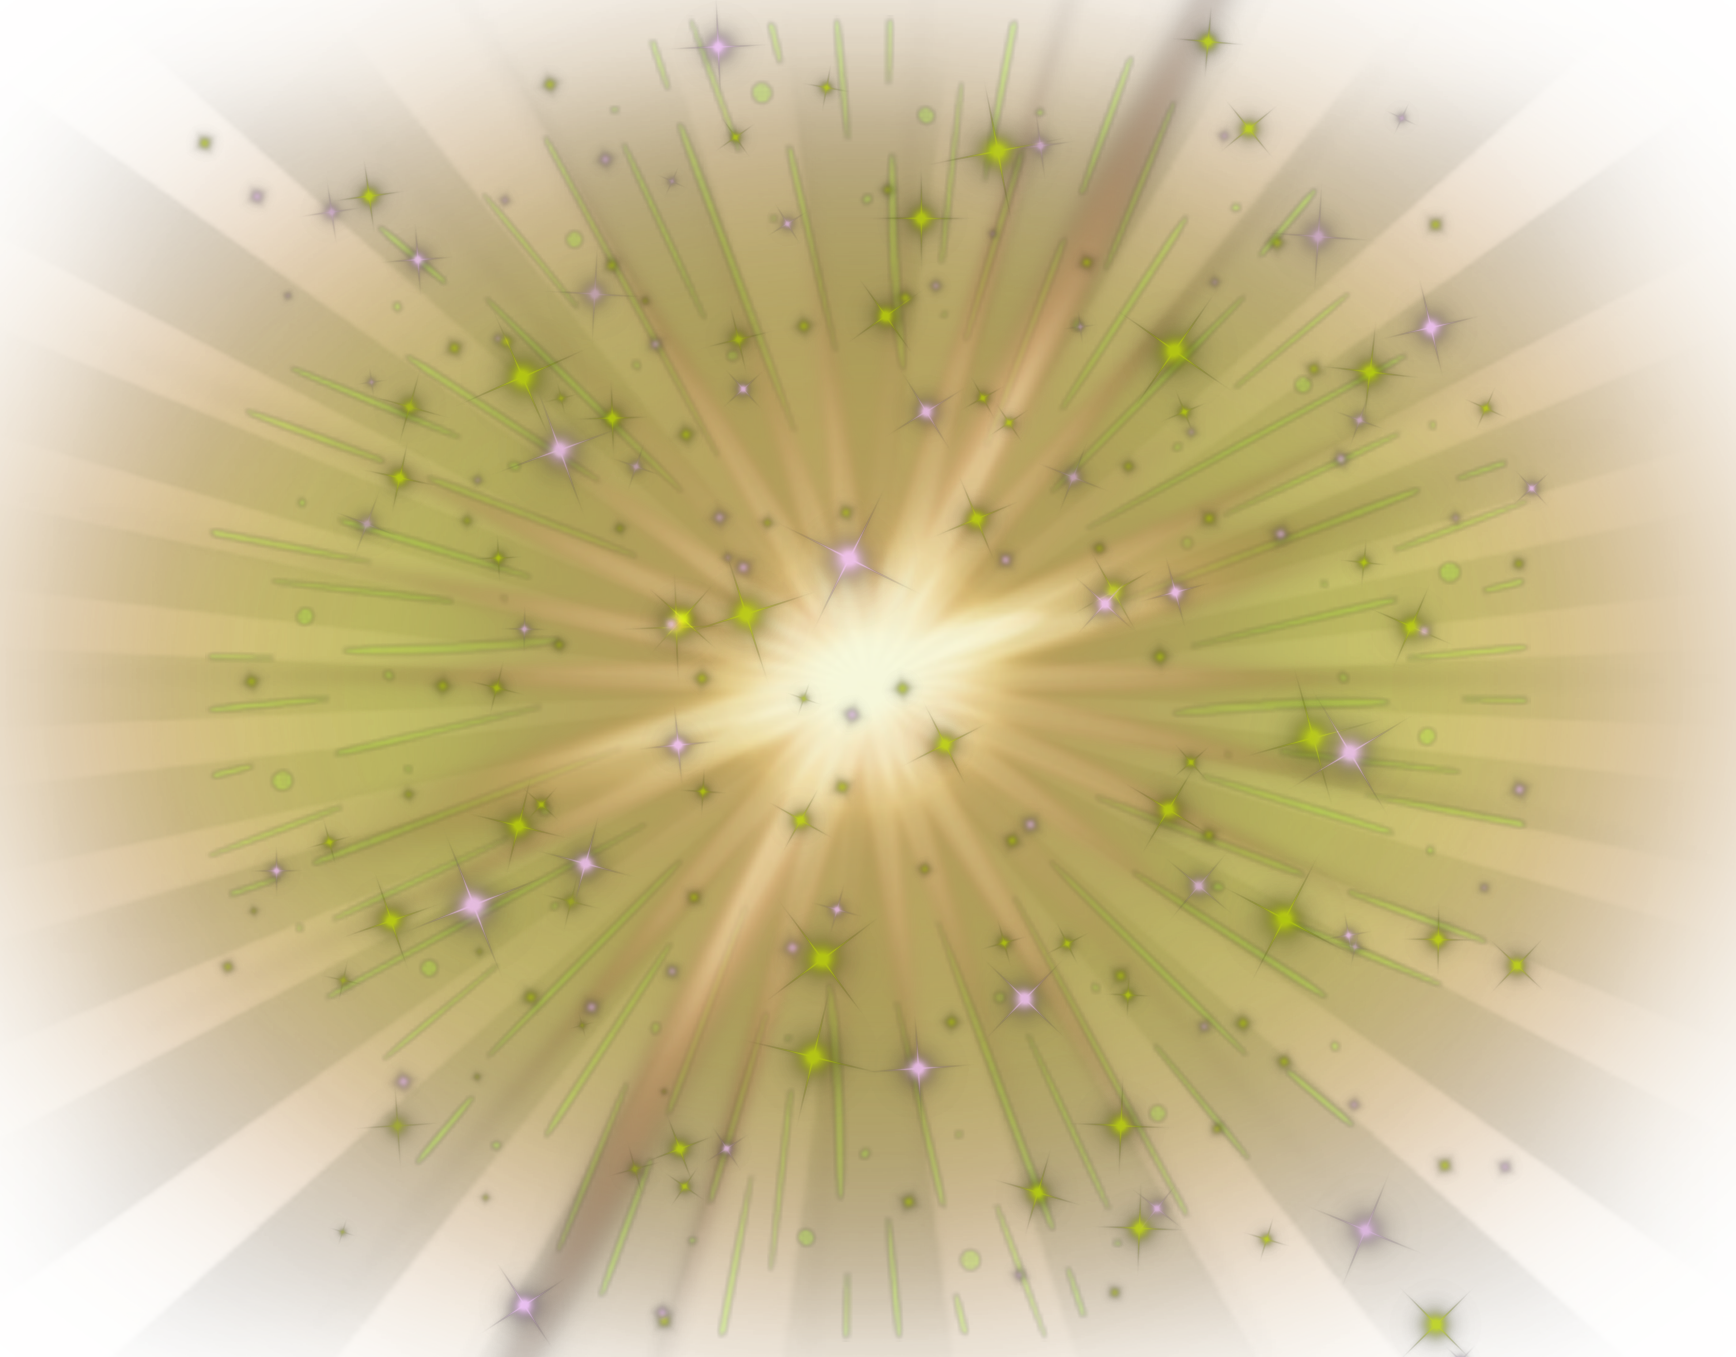
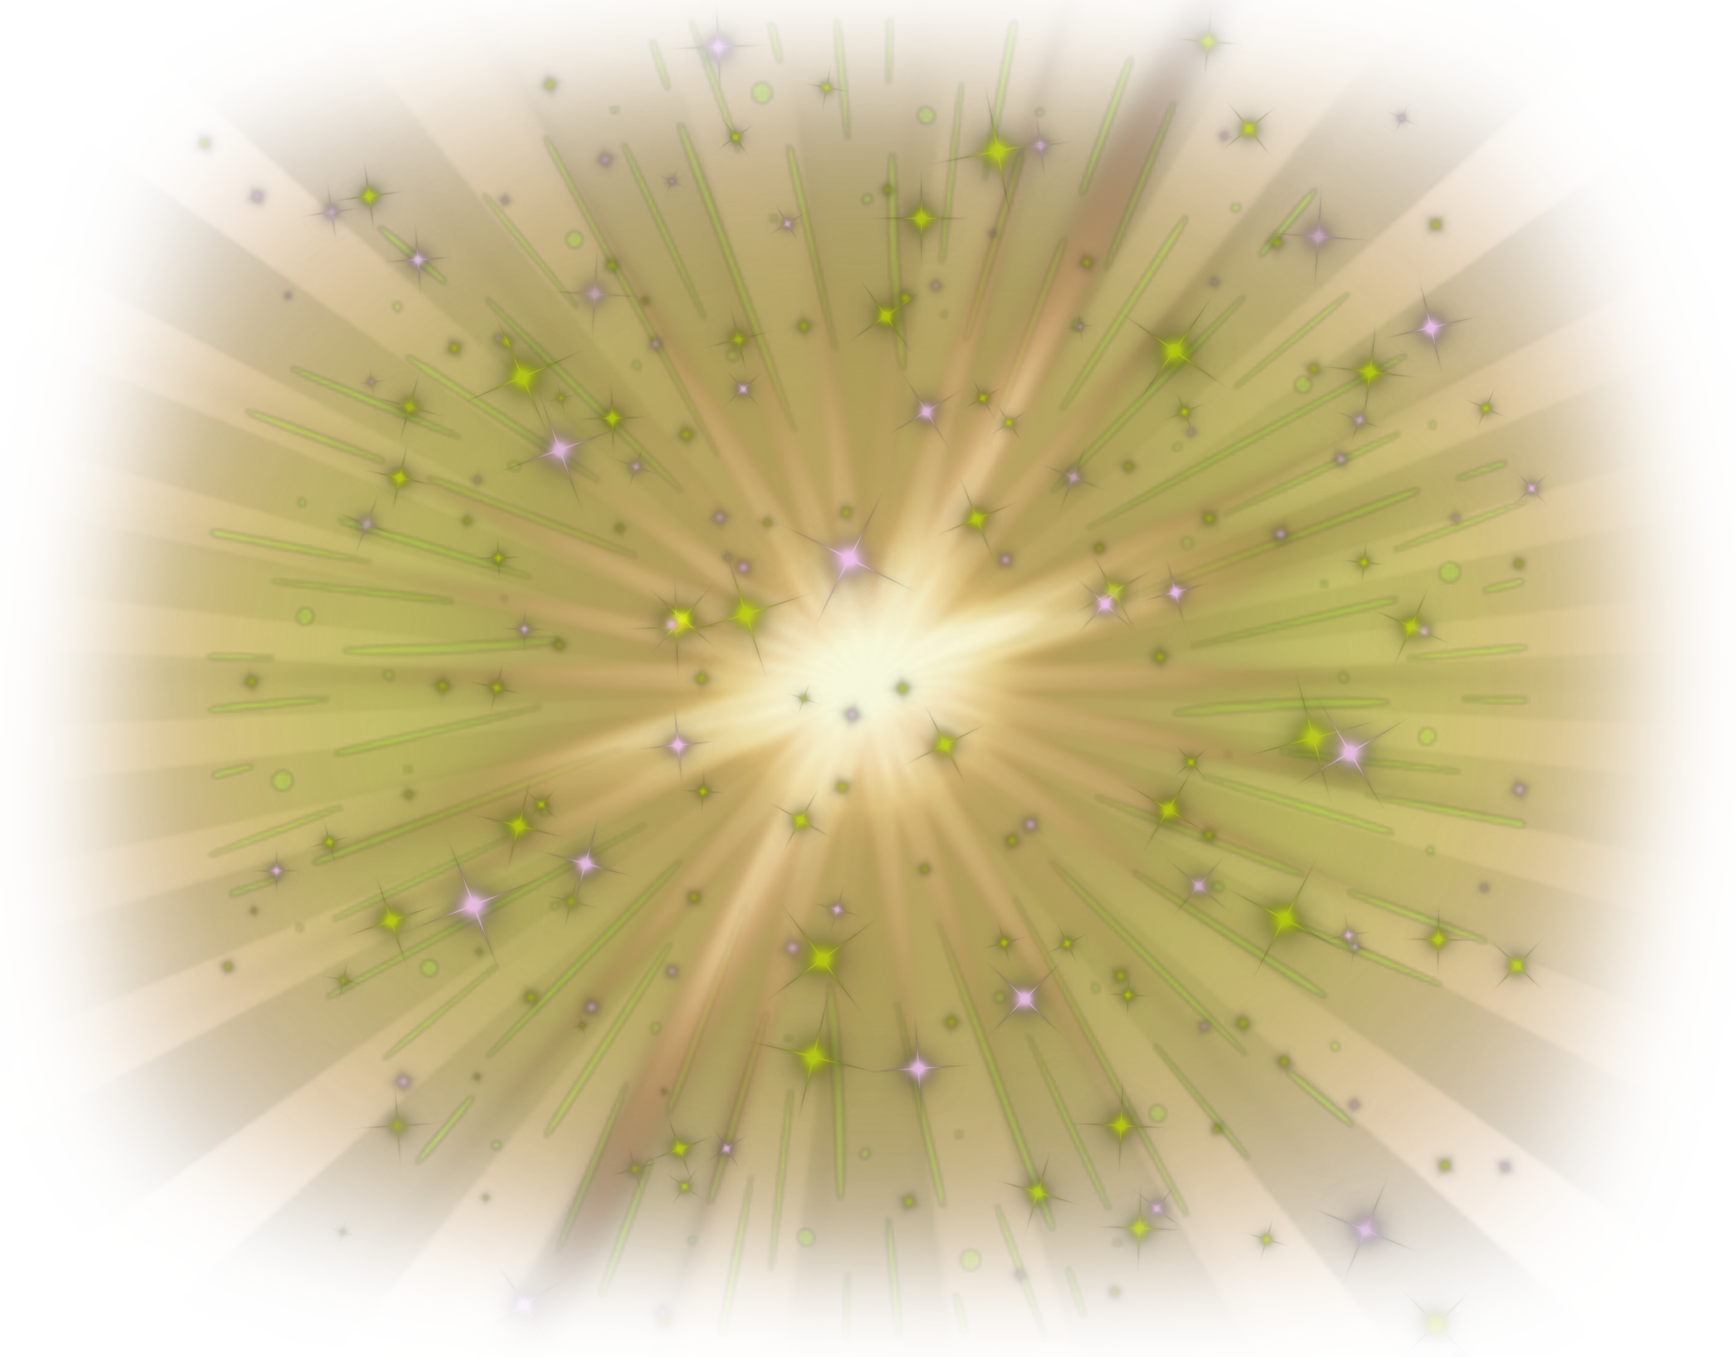
added new particles on background (shooting stars)

diff --git a/TestPetProject/src/controls/particles/EmitterBehaviorMap.ts b/TestPetProject/src/controls/particles/EmitterBehaviorMap.ts
@@ -9,8 +9,8 @@ export default class EmitterBehaviorMap {
         {
           type: "moveSpeedStatic",
           config: {
-            min: 100,
-            max: 100,
+            min: 500,
+            max: 1700,
           },
         },
         {
@@ -29,7 +29,7 @@ export default class EmitterBehaviorMap {
           config: {
             accel: 0,
             minSpeed: 0,
-            maxSpeed: 80,
+            maxSpeed: 0,
             minStart: 50,
             maxStart: 70,
           },
@@ -40,7 +40,7 @@ export default class EmitterBehaviorMap {
             anims: [
               {
                 framerate: 10,
-                loop: true,
+                loop: false,
                 textures:
                   ParticleAtlasLoader.getParticleTextures("leaves")
                 ,

diff --git a/TestPetProject/src/controls/particles/BackgroundParticleControl.ts b/TestPetProject/src/controls/particles/BackgroundParticleControl.ts
@@ -12,10 +12,10 @@ export default class BackgroundParticleControl
   constructor() {
     const behaviorMap: EmitterBehaviorMap = new EmitterBehaviorMap();
     const backgroundParticleConfig: EmitterConfigV3 = {
-      lifetime: { min: 20, max: 20 },
+      lifetime: { min: 3, max: 5 },
       frequency: 1,
-      particlesPerWave: 5,
-      maxParticles: 100,
+      particlesPerWave: 3,
+      maxParticles: 10,
       pos: { x: 0, y: 0 },
       autoUpdate: true,
       behaviors: behaviorMap.EMITTER_BEHAVIOR_MAP.get("background")!,
